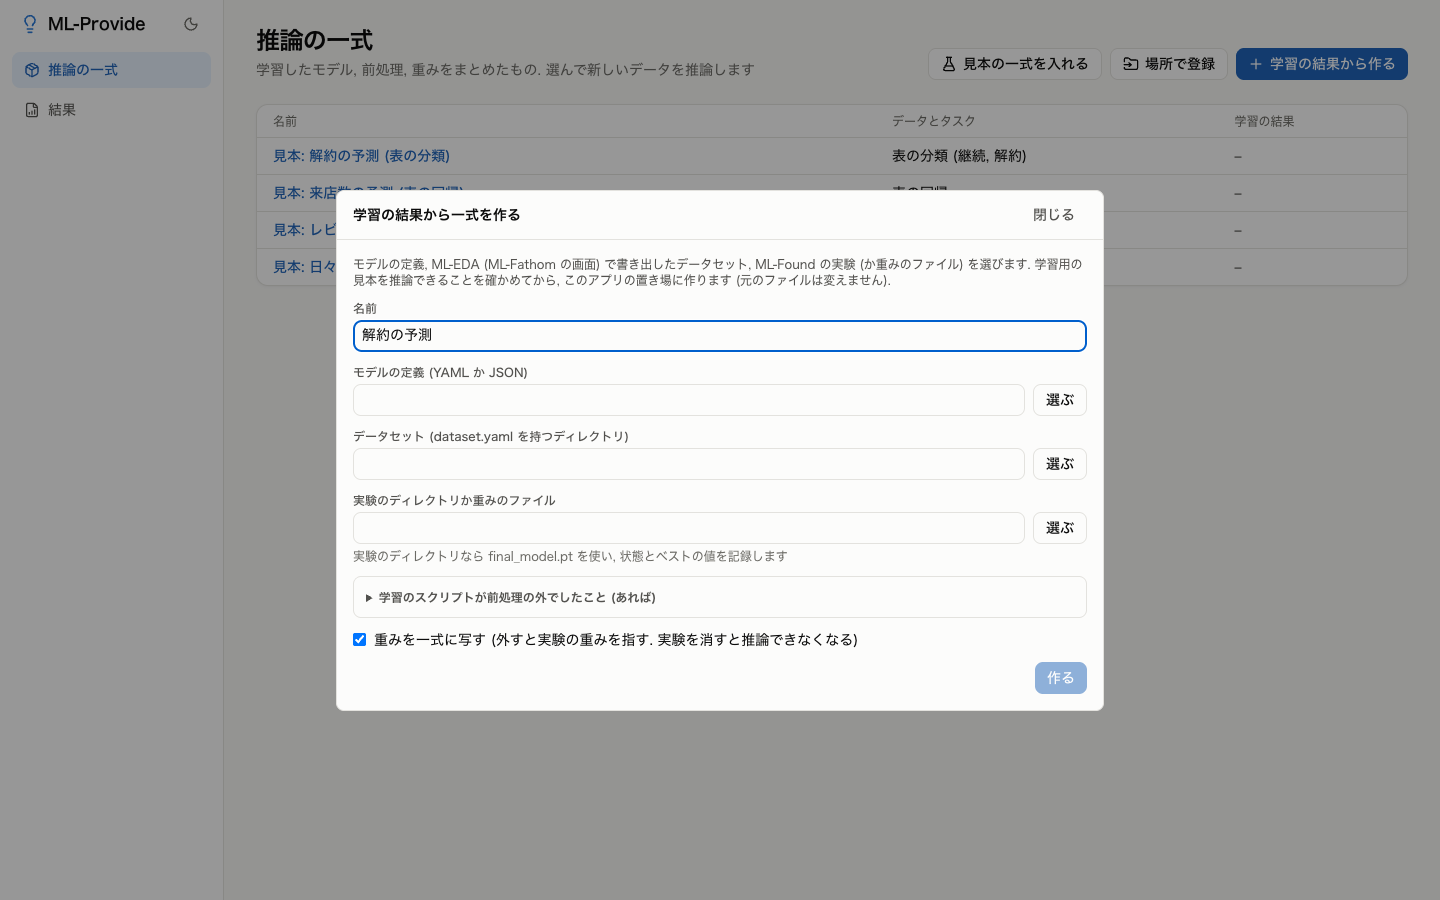
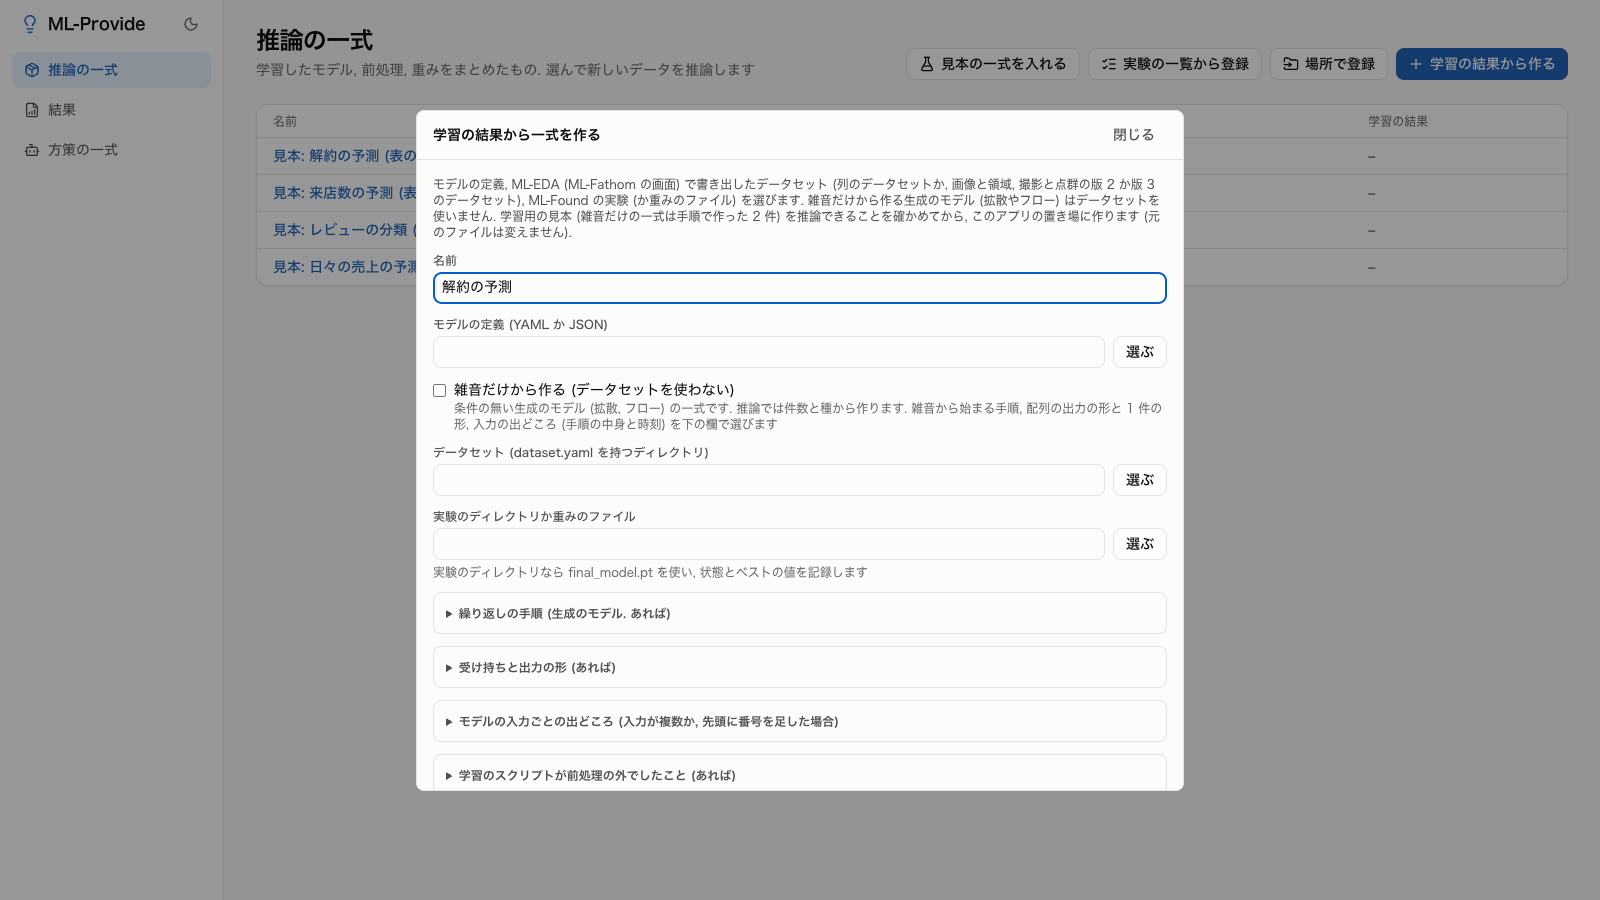
README の画面の例を撮る仕組みを足し, 方策の画面を加えて撮り直す

diff --git a/frontend/e2e/screens.ts b/frontend/e2e/screens.ts
@@ -1,0 +1,161 @@
+/// <reference lib="dom" />
+/// <reference lib="dom.iterable" />
+// README と操作ガイドの画面の例 (docs/images/*.png) を撮る (CI では使わない).
+// 先に pnpm build をして, 別の端末で bash e2e/screens.sh を起動しておき,
+// frontend で node e2e/screens.ts を実行する
+import { resolve } from 'node:path'
+
+import { chromium, expect, type Locator, type Page } from '@playwright/test'
+
+const port = Number(process.env.SCREENS_PORT ?? 8797)
+const base = `http://127.0.0.1:${port}`
+const home = resolve('e2e/.screens')
+const out = resolve('../docs/images')
+
+/** 画面に出る作業用の置き場 (ホーム) の場所を ~ で示す (手元の場所を写さない) */
+function hideHome(prefix: string) {
+  const swap = (text: string) => text.split(prefix).join('~')
+  const run = () => {
+    const walker = document.createTreeWalker(document.body, NodeFilter.SHOW_TEXT)
+    for (let node = walker.nextNode(); node; node = walker.nextNode())
+      if (node.nodeValue?.includes(prefix)) node.nodeValue = swap(node.nodeValue)
+    for (const input of document.querySelectorAll('input'))
+      if (input.value.includes(prefix)) input.value = swap(input.value)
+  }
+  document.addEventListener('DOMContentLoaded', () => {
+    new MutationObserver(run).observe(document.body, {
+      subtree: true,
+      childList: true,
+      characterData: true,
+    })
+    setInterval(run, 100)
+  })
+}
+
+/** 要素を本文の上の端に寄せる */
+async function scrollTo(target: Locator) {
+  await target.evaluate((element) => {
+    element.scrollIntoView({ block: 'start' })
+    document.querySelector('main')?.scrollBy(0, -16)
+  })
+}
+
+async function shot(page: Page, name: string) {
+  // 場所の置き換えと描画が済むのを待つ
+  await page.waitForTimeout(800)
+  await page.mouse.move(0, 0)
+  await page.screenshot({ path: `${out}/${name}.png` })
+}
+
+/** 一式を開き, 見本のデータ (新しいか過去) で推論して結果の画面に移る */
+async function infer(page: Page, bundle: string, sample: RegExp, ahead = false) {
+  await page.goto(`${base}/`)
+  await page.getByRole('link', { name: bundle }).first().click()
+  await page.getByRole('button', { name: sample }).click()
+  if (ahead) await page.getByLabel(/何段も先まで予測する/).check()
+  await page.getByRole('button', { name: '推論する' }).click()
+  await expect(page.getByText(/件のうち/).first()).toBeVisible({ timeout: 60_000 })
+}
+
+const churn = '見本: 解約の予測 (表の分類)'
+const visits = '見本: 来店数の予測 (表の回帰)'
+const sales = '見本: 日々の売上の予測 (時系列, 先の予測)'
+
+const browser = await chromium.launch({ channel: process.env.CI ? undefined : 'chrome' })
+const context = await browser.newContext({
+  viewport: { width: 1600, height: 900 },
+  extraHTTPHeaders: { 'x-provide-token': 'e2e-token' },
+})
+await context.addInitScript(hideHome, home)
+const page = await context.newPage()
+
+// 一覧: 見本の一式を入れる (その場で学習するので長めに待つ)
+await page.goto(`${base}/`)
+await page.getByRole('button', { name: '見本の一式を入れる' }).click()
+await expect(page.getByRole('link', { name: churn })).toBeVisible({ timeout: 180_000 })
+await expect(page.getByRole('link', { name: sales })).toBeVisible({ timeout: 180_000 })
+await shot(page, 'bundles')
+
+// 学習の結果から作る
+await page.getByRole('button', { name: '学習の結果から作る' }).click()
+await page.getByLabel('名前', { exact: true }).fill('解約の予測')
+await shot(page, 'create')
+
+// 一式の画面
+await page.goto(`${base}/`)
+await page.getByRole('link', { name: churn }).click()
+await expect(page.getByText('一式での評価')).toBeVisible()
+await page.getByRole('button', { name: /見本の新しいデータ/ }).click()
+await shot(page, 'bundle')
+
+// 意思決定の欄
+await scrollTo(page.getByRole('region', { name: '意思決定' }))
+await shot(page, 'decision-form')
+
+// 結果: 結論と意思決定 (新しいデータ 50 行)
+await page.getByRole('button', { name: '推論する' }).click()
+await expect(page.getByText(/件のうち/).first()).toBeVisible({ timeout: 60_000 })
+await shot(page, 'result')
+
+// 予測の表
+await scrollTo(page.getByRole('table', { name: '予測と判断の表' }))
+await shot(page, 'predictions')
+
+// 決め方を変えて出し直し, 保留で絞る
+await page.getByLabel('陽性のクラス').selectOption('')
+await page.getByLabel(/確信の下限/).fill('0.8')
+await page.getByRole('button', { name: '出し直す' }).click()
+await expect(page.getByRole('list', { name: '判断の内訳' })).toContainText('保留')
+await page.getByLabel('判断で絞る').selectOption('保留')
+await page.evaluate(() => document.querySelector('main')?.scrollTo(0, 0))
+await shot(page, 'reconclude')
+
+// 過去のデータ 300 行でたどり直す
+await infer(page, churn, /見本の過去のデータ/)
+await page.getByRole('button', { name: '過去のデータでたどり直す' }).click()
+const replay = page.getByRole('region', { name: 'たどり直し' })
+await expect(replay).toContainText('この方針', { timeout: 60_000 })
+await scrollTo(page.getByRole('heading', { name: /^意思決定/ }))
+await shot(page, 'decision-result')
+
+// 量を決める: 日々の売上の先の 7 日
+await infer(page, sales, /見本の新しいデータ/, true)
+await scrollTo(page.getByRole('heading', { name: /^意思決定/ }))
+await shot(page, 'decision-quantity')
+
+// 回帰: 値の帯と店ごと
+await infer(page, visits, /見本の新しいデータ/)
+await expect(page.getByRole('heading', { name: 'shop ごと' })).toBeVisible()
+await shot(page, 'regression')
+
+// 列の効き
+await page.getByRole('button', { name: '求める' }).click()
+const effects = page.getByRole('list', { name: '列の効き' })
+await expect(effects).toContainText('shop', { timeout: 60_000 })
+await scrollTo(page.getByRole('heading', { name: /^列の効き/ }))
+await shot(page, 'explain')
+
+// 外れ方の確かめ: 来店数の過去のデータ
+await infer(page, visits, /見本の過去のデータ/)
+await page.getByRole('button', { name: '確かめる' }).click()
+await expect(page.getByRole('list', { name: '外れ方の確かめの結果' })).toContainText('300 行', {
+  timeout: 60_000,
+})
+await scrollTo(page.getByRole('heading', { name: /^外れ方の確かめ/ }))
+await shot(page, 'remeasure')
+
+// 方策の一式: 実験の一覧から登録して行動を決める
+await page.goto(`${base}/policies`)
+await page.getByRole('button', { name: '実験の一覧から登録' }).click()
+await page
+  .getByRole('dialog', { name: '実験の一覧から登録' })
+  .getByRole('button', { name: /cartpole.* を登録/ })
+  .click()
+await page
+  .getByLabel(/^観測/)
+  .fill('0.5478467492858172, -0.9208531449445188, -0.18361059042552214, -1.9338894578858836')
+await page.getByRole('button', { name: '行動を決める' }).click()
+await expect(page.getByRole('status').filter({ hasText: '行動' })).toContainText('そのまま')
+await shot(page, 'policy')
+
+await browser.close()

diff --git a/README.md b/README.md
@@ -8,20 +8,20 @@
 
 <table>
   <tr>
-    <td><img src="docs/images/bundles.png" alt="推論の一式の一覧: 見本の 4 つの一式 (表の分類, 表の回帰, 文の分類, 時系列の予測)"></td>
     <td><img src="docs/images/bundle.png" alt="一式の画面: 問題の設定, 推論するデータ, 意思決定と結論の決め方の欄, この一式の過去の結果"></td>
-  </tr>
-  <tr>
     <td><img src="docs/images/predictions.png" alt="予測の表: 予測, 確信, クラスごとの確率, 行ごとの行動と判断を元の列に足した表"></td>
-    <td><img src="docs/images/decision-result.png" alt="意思決定と, 過去のデータでのたどり直し: この方針と確率の高い順の実際の得と, 差の 90 % の幅"></td>
   </tr>
   <tr>
+    <td><img src="docs/images/decision-result.png" alt="意思決定と, 過去のデータでのたどり直し: この方針と確率の高い順の実際の得と, 差の 90 % の幅"></td>
     <td><img src="docs/images/decision-quantity.png" alt="量を決める意思決定: 欠品の損 3, 売れ残りの損 1 で, 先の 7 日に置く量とその前提"></td>
+  </tr>
+  <tr>
     <td><img src="docs/images/explain.png" alt="列の効き: 来店数の予測が店, 気温, 休日, 販促の順に頼っていることを示す横棒"></td>
+    <td><img src="docs/images/policy.png" alt="方策の一式の画面: 観測と行動の空間, 守り, 観測から決めた行動と守りの結果"></td>
   </tr>
 </table>
 
-画面の例は, 「見本の一式を入れる」で入る見本 (作り方の分かる合成のデータで, その場で学習した小さなモデル). 一番上と予測の表は解約の予測の新しいデータ 50 行, たどり直しは解約の予測の過去のデータ 300 行, 量を決めるのは日々の売上の先の 7 日, 列の効きは来店数の予測の新しいデータ. 置き場のパスは既定の `~/.ml-provide` で示している.
+画面の例は, 「見本の一式を入れる」で入る見本 (作り方の分かる合成のデータで, その場で学習した小さなモデル). 一番上と予測の表は解約の予測の新しいデータ 50 行, たどり直しは解約の予測の過去のデータ 300 行, 量を決めるのは日々の売上の先の 7 日, 列の効きは来店数の予測の新しいデータ. 方策は, 方策の骨組みの学習が実験の中に書き出した CartPole の方策の一式を「実験の一覧から登録」で登録したもの. 置き場のパスは既定の `~/.ml-provide` で示している.
 
 ## できること
 
@@ -74,6 +74,8 @@ make dev-frontend   # 画面 (別の端末で)
 make check          # lint, 型検査, テスト
 cd frontend && pnpm e2e   # 画面の通しのテスト
 ```
+
+README と操作ガイドの画面の例 (`docs/images/`) は, 画面の通しのテストと同じ見本で撮る. `cd frontend && pnpm build` の後, `bash e2e/screens.sh` で起動し, 別の端末の `frontend` で `node e2e/screens.ts` を実行する.
 
 | ディレクトリ | 内容 |
 | --- | --- |
